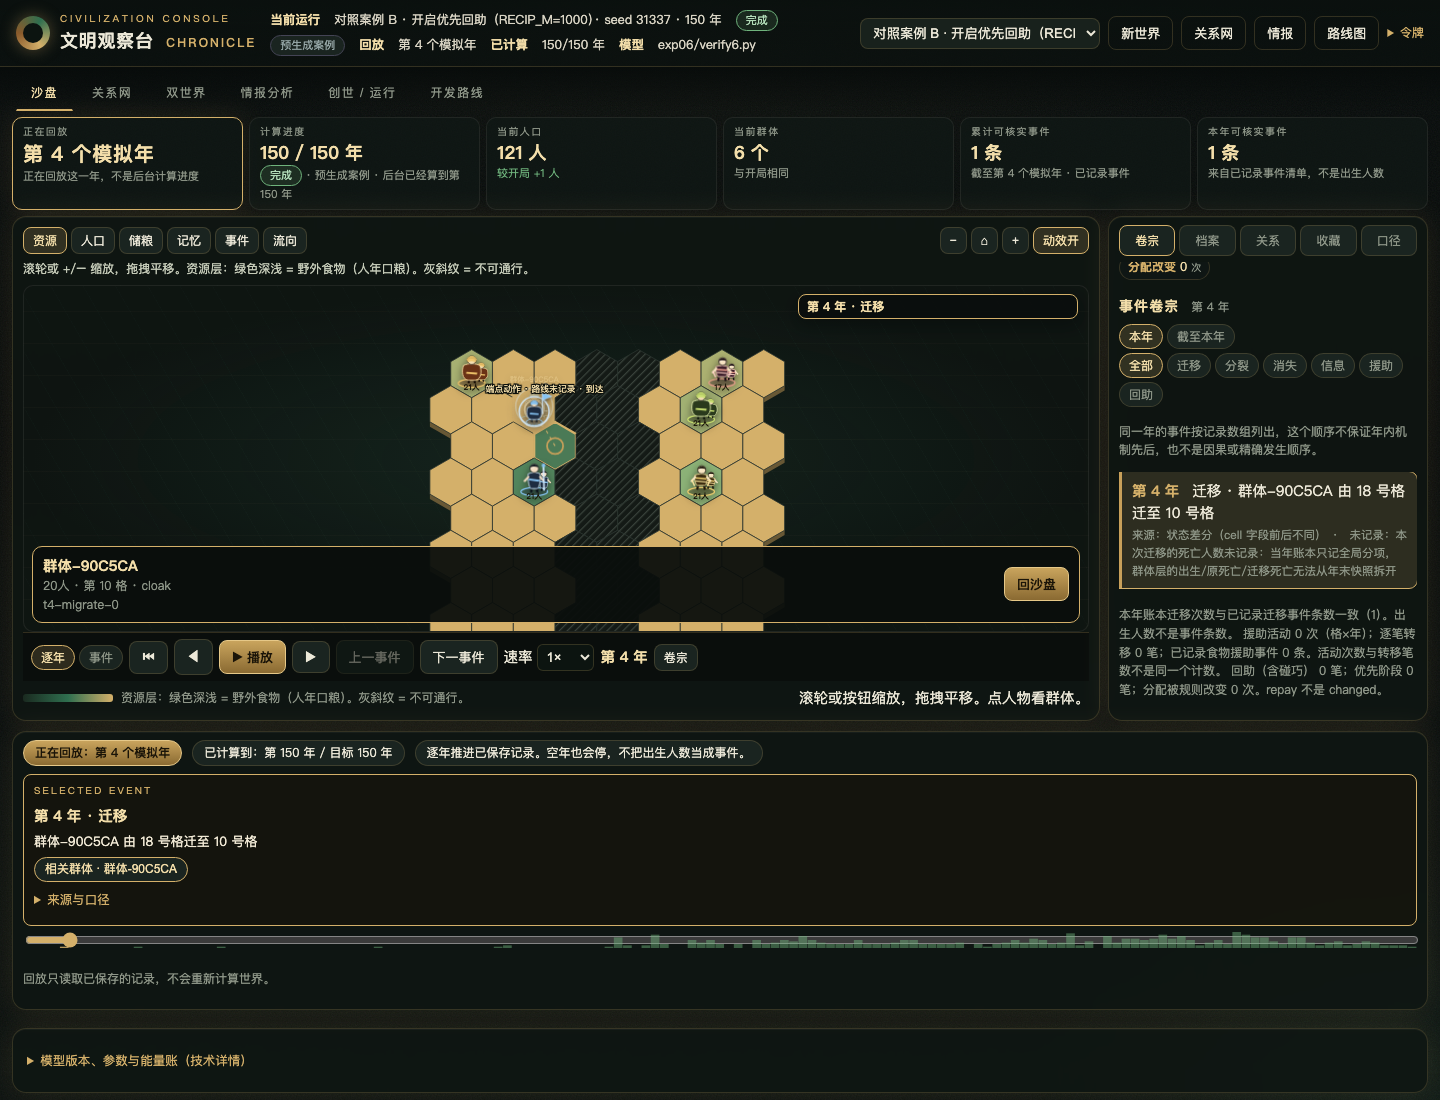
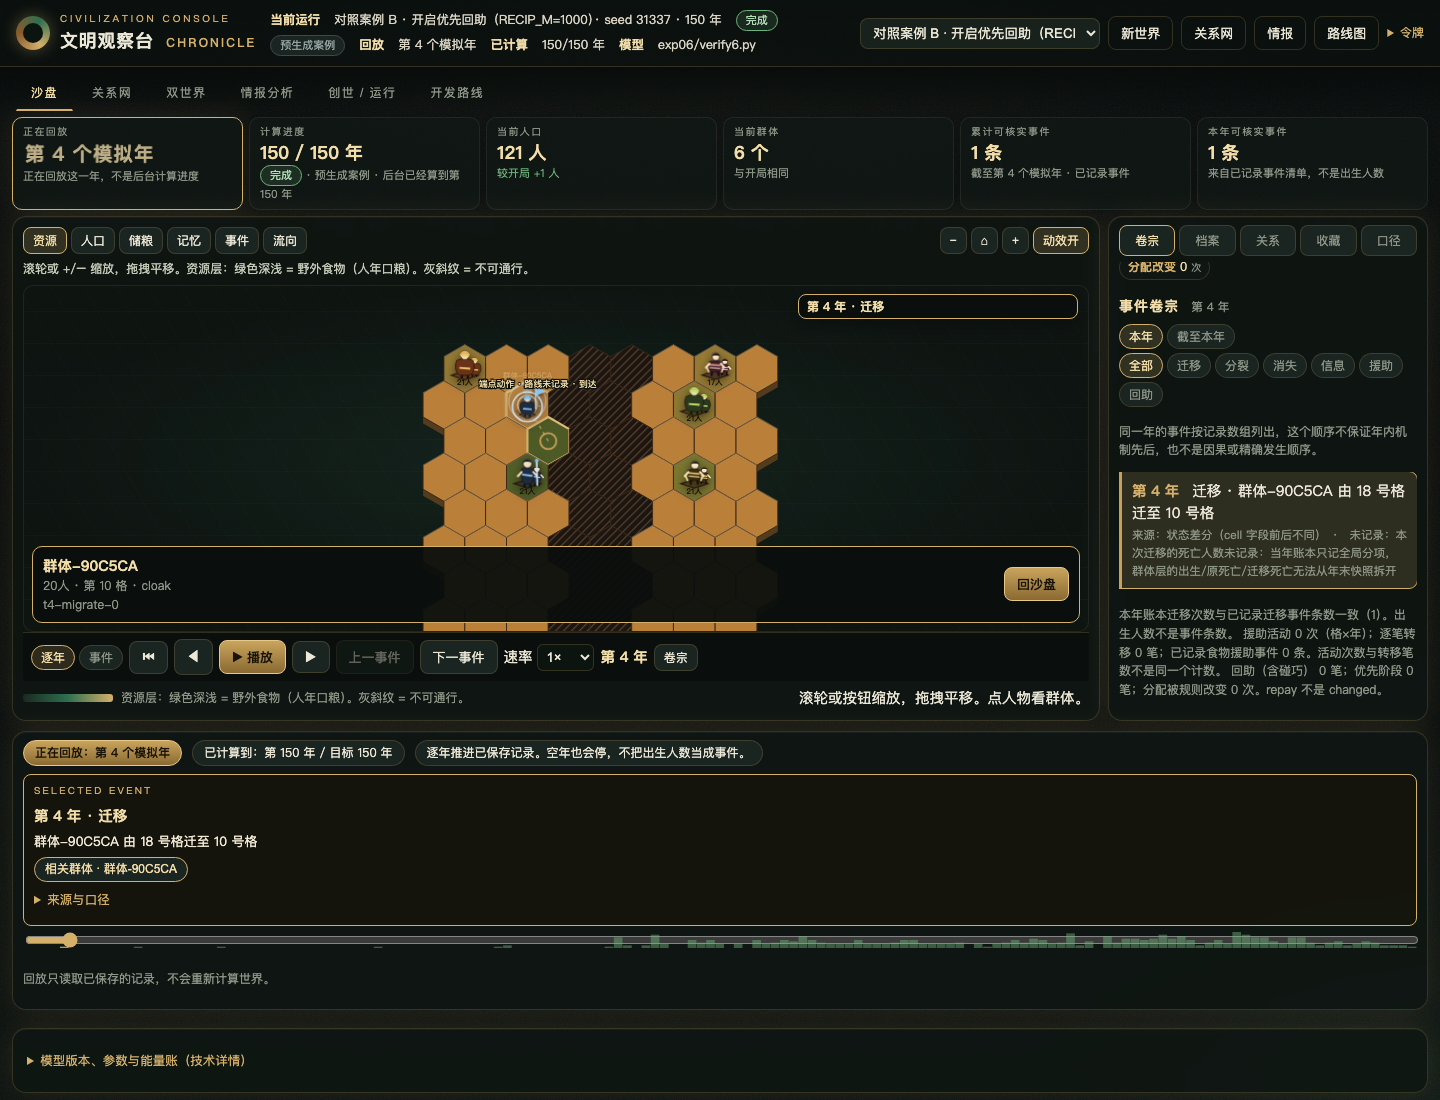
OBS-01 isometric hex camps and taller 390 map without waiting sprites

Changed region(s): [[0.2812, 0.3091, 0.5625, 0.4945], [0.2812, 0.5564, 0.5312, 0.5873], [0.0, 0.1236, 0.125, 0.1545]]

diff --git a/observer/web/app.js b/observer/web/app.js
@@ -535,7 +535,7 @@ const UnitArt = {
     if (kind === 1) {
       legs = `<path class="unit-leg unit-leg-l" d="${walk ? "M-3.4,6.6 L-5.2,12.2" : "M-3.2,6.6 L-4.0,12.0"}" stroke="${pal.hair}" stroke-width="2.7" stroke-linecap="round" fill="none"/>`
         + `<path class="unit-leg unit-leg-r" d="${walk ? "M3.4,6.6 L5.2,12.2" : "M3.2,6.6 L4.0,12.0"}" stroke="${pal.hair}" stroke-width="2.7" stroke-linecap="round" fill="none"/>`;
-      tunic = `<path class="unit-tunic" d="M-8.4,-1.0 C-9.2,4.6 -7.2,9.0 -4.6,9.8 L4.6,9.8 C7.2,9.0 9.2,4.6 8.4,-1.0 C4.6,-2.8 -4.6,-2.8 -8.4,-1.0Z" fill="${pal.cloth}" stroke="${pal.accent}" stroke-width="0.85"/>`;
+      tunic = `<path class="unit-tunic" d="M-8.4,-1.0 C-9.2,4.6 -7.2,9.0 -4.6,9.8 L4.6,9.8 C7.2,9.0 9.2,4.6 8.4,-1.0 C4.6,-2.8 -4.6,-2.8 -8.4,-1.0Z" fill="${pal.cloth}" stroke="#2a1810" stroke-width="0.85"/>`;
       sash = `<path class="unit-sash" d="M-7.2,2.0 L7.4,3.2 L6.8,5.4 L-7.6,4.2Z" fill="${pal.sash}"/>`;
       head = `<circle class="unit-head" cx="0" cy="-5.6" r="4.55" fill="${pal.skin}" stroke="${pal.hair}" stroke-width="0.75"/>`
         + `<path class="unit-hair" d="M-4.4,-6.2 C-3.4,-9.4 3.4,-9.4 4.4,-6.2 C2.0,-7.4 -2.0,-7.4 -4.4,-6.2Z" fill="${pal.hair}"/>`
@@ -543,7 +543,7 @@ const UnitArt = {
     } else if (kind === 2) {
       legs = `<path class="unit-leg unit-leg-l" d="${walk ? "M-2.4,7.6 L-3.8,13.4" : "M-2.2,7.6 L-2.8,13.2"}" stroke="${pal.hair}" stroke-width="2.05" stroke-linecap="round" fill="none"/>`
         + `<path class="unit-leg unit-leg-r" d="${walk ? "M2.4,7.6 L3.8,13.4" : "M2.2,7.6 L2.8,13.2"}" stroke="${pal.hair}" stroke-width="2.05" stroke-linecap="round" fill="none"/>`;
-      tunic = `<path class="unit-tunic" d="M-7.6,-2.4 C-9.6,2.8 -8.8,10.4 -3.6,11.2 L3.6,11.2 C8.8,10.4 9.6,2.8 7.6,-2.4 C3.2,-4.6 -3.2,-4.6 -7.6,-2.4Z" fill="${pal.cloth}" stroke="${pal.accent}" stroke-width="0.8"/>`;
+      tunic = `<path class="unit-tunic" d="M-7.6,-2.4 C-9.6,2.8 -8.8,10.4 -3.6,11.2 L3.6,11.2 C8.8,10.4 9.6,2.8 7.6,-2.4 C3.2,-4.6 -3.2,-4.6 -7.6,-2.4Z" fill="${pal.cloth}" stroke="#2a1810" stroke-width="0.8"/>`;
       sash = `<path class="unit-sash" d="M-4.8,3.4 L5.2,4.2 L4.8,6.0 L-5.2,5.2Z" fill="${pal.sash}"/>`;
       head = `<circle class="unit-head" cx="0" cy="-7.2" r="3.9" fill="${pal.skin}" stroke="${pal.hair}" stroke-width="0.6"/>`
         + `<path class="unit-hair" d="M-4.6,-6.4 C-5.2,-11.6 5.2,-11.6 4.6,-6.4 C2.4,-8.8 -2.4,-8.8 -4.6,-6.4Z" fill="${pal.hair}"/>`
@@ -552,7 +552,7 @@ const UnitArt = {
     } else if (kind === 3) {
       legs = `<path class="unit-leg unit-leg-l" d="${walk ? "M-2.8,6.4 L-4.8,11.6" : "M-2.6,6.4 L-3.4,11.4"}" stroke="${pal.hair}" stroke-width="2.05" stroke-linecap="round" fill="none"/>`
         + `<path class="unit-leg unit-leg-r" d="${walk ? "M2.8,6.4 L4.8,11.6" : "M2.6,6.4 L3.4,11.4"}" stroke="${pal.hair}" stroke-width="2.05" stroke-linecap="round" fill="none"/>`;
-      tunic = `<path class="unit-tunic" d="M-5.8,-1.2 C-6.2,3.4 -5.0,7.4 -3.4,8.2 L3.4,8.2 C5.0,7.4 6.2,3.4 5.8,-1.2 C3.2,-2.6 -3.2,-2.6 -5.8,-1.2Z" fill="${pal.cloth}" stroke="${pal.accent}" stroke-width="0.8"/>`;
+      tunic = `<path class="unit-tunic" d="M-5.8,-1.2 C-6.2,3.4 -5.0,7.4 -3.4,8.2 L3.4,8.2 C5.0,7.4 6.2,3.4 5.8,-1.2 C3.2,-2.6 -3.2,-2.6 -5.8,-1.2Z" fill="${pal.cloth}" stroke="#2a1810" stroke-width="0.8"/>`;
       sash = `<path class="unit-sash" d="M-5.0,0.6 L5.2,1.4 L4.8,2.8 L-5.4,2.0Z" fill="${pal.sash}"/>`
         + `<path class="unit-sash" d="M-5.0,3.6 L5.2,4.4 L4.8,5.6 L-5.4,4.8Z" fill="${pal.accent}" opacity="0.85"/>`;
       head = `<circle class="unit-head" cx="0.6" cy="-6.2" r="3.7" fill="${pal.skin}" stroke="${pal.hair}" stroke-width="0.7"/>`
@@ -561,7 +561,7 @@ const UnitArt = {
     } else {
       legs = `<path class="unit-leg unit-leg-l" d="${walk ? "M-2.2,8.0 L-3.6,14.2" : "M-2.0,8.0 L-2.8,14.0"}" stroke="${pal.hair}" stroke-width="2.15" stroke-linecap="round" fill="none"/>`
         + `<path class="unit-leg unit-leg-r" d="${walk ? "M2.2,8.0 L3.6,14.2" : "M2.0,8.0 L2.8,14.0"}" stroke="${pal.hair}" stroke-width="2.15" stroke-linecap="round" fill="none"/>`;
-      tunic = `<path class="unit-tunic" d="M-5.6,-2.4 C-6.0,4.8 -4.6,10.2 -3.0,11.2 L3.0,11.2 C4.6,10.2 6.0,4.8 5.6,-2.4 C3.2,-4.0 -3.2,-4.0 -5.6,-2.4Z" fill="${pal.cloth}" stroke="${pal.accent}" stroke-width="0.8"/>`;
+      tunic = `<path class="unit-tunic" d="M-5.6,-2.4 C-6.0,4.8 -4.6,10.2 -3.0,11.2 L3.0,11.2 C4.6,10.2 6.0,4.8 5.6,-2.4 C3.2,-4.0 -3.2,-4.0 -5.6,-2.4Z" fill="${pal.cloth}" stroke="#2a1810" stroke-width="0.8"/>`;
       sash = `<path class="unit-sash" d="M-4.8,1.8 L4.8,3.0 L4.4,4.8 L-5.2,3.6Z" fill="${pal.sash}"/>`;
       head = `<circle class="unit-head" cx="0" cy="-7.4" r="4.05" fill="${pal.skin}" stroke="${pal.hair}" stroke-width="0.7"/>`
         + `<path class="unit-hair" d="M-3.8,-8.2 C-3.2,-12.0 3.2,-12.0 3.8,-8.2 C1.6,-9.6 -1.6,-9.6 -3.8,-8.2Z" fill="${pal.hair}"/>`
@@ -602,7 +602,7 @@ const UnitArt = {
       : "";
     return `<g class="band unit${on ? " selected" : ""}${ghost}" data-band="${esc(bid)}" data-unit="group-rep" data-party="${nParty}" data-silhouette="${this.silhouetteName(v)}" data-pose="${esc(pose)}" data-cell="${esc(cell)}" transform="translate(${Number(x).toFixed(1)},${Number(y).toFixed(1)}) scale(${(sc * facing).toFixed(3)},${sc.toFixed(3)})">
       <title>${esc(name)} · 群体代表（${this.silhouetteName(v)} · ${nParty}人造型）· ${size}人。这是群体的可视替身，不是独立个人生平。</title>
-      <ellipse class="unit-camp" cx="0" cy="14.0" rx="${campRx}" ry="3.8" fill="${pal.cloth}" fill-opacity="0.34" stroke="${pal.sash}" stroke-width="1.05"/>
+      <path class="unit-camp" d="M0,15.2 L${campRx},11.2 L0,7.2 L-${campRx},11.2 Z" fill="${pal.cloth}" fill-opacity="0.5" stroke="#2a1810" stroke-width="1.15"/>
       <g class="unit-body unit-${esc(pose)}">${party}</g>
       ${on ? `<circle class="unit-ring" cx="0" cy="2" r="17.2" fill="none" stroke="${pal.accent}" stroke-width="1.55"/>` : ""}
       ${banner}
@@ -1130,13 +1130,22 @@ function hexPath(cx, cy) {
   }
   return d + "Z";
 }
+function hexTopEdge(cx, cy) {
+  const pts = [];
+  for (let k = 5; k <= 7; k++) {
+    const i = k % 6;
+    const a = Math.PI / 180 * (60 * i - 90);
+    pts.push((cx + R * Math.cos(a)).toFixed(1) + "," + (cy + R * Math.sin(a)).toFixed(1));
+  }
+  return "M" + pts.join(" L");
+}
 function hexSkirtPath(cx, cy) {
   const pts = [];
   for (let k = 0; k < 6; k++) {
     const a = Math.PI / 180 * (60 * k - 90);
     pts.push([cx + R * Math.cos(a), cy + R * Math.sin(a)]);
   }
-  const drop = 6;
+  const drop = 8;
   const q = (i) => pts[i][0].toFixed(1) + "," + (pts[i][1] + drop).toFixed(1);
   return "M" + pts[1][0].toFixed(1) + "," + pts[1][1].toFixed(1)
     + "L" + pts[2][0].toFixed(1) + "," + pts[2][1].toFixed(1)
@@ -1157,7 +1166,7 @@ function cellCenter(c) {
 }
 function ramp(f) {
   f = Math.max(0, Math.min(1, f));
-  const a = [18, 32, 26], b = [111, 179, 124], c = [212, 176, 106];
+  const a = [48, 54, 28], b = [96, 112, 44], c = [186, 128, 58];
   const mix = (p, q, t) => p.map((v, i) => Math.round(v + (q[i] - v) * t));
   const rgb = f < 0.55 ? mix(a, b, f / 0.55) : mix(b, c, (f - 0.55) / 0.45);
   return "rgb(" + rgb.join(",") + ")";
@@ -1215,7 +1224,7 @@ function renderMap() {
 
   let out = `<defs>
     <pattern id="hatch" width="7" height="7" patternUnits="userSpaceOnUse" patternTransform="rotate(45)">
-      <rect width="7" height="7" fill="#141a16"/><line x1="0" y1="0" x2="0" y2="7" stroke="#3a433c" stroke-width="3"/>
+      <rect width="7" height="7" fill="#1c1610"/><line x1="0" y1="0" x2="0" y2="7" stroke="#5a4030" stroke-width="3"/>
     </pattern>
     <filter id="glow"><feGaussianBlur stdDeviation="1.6" result="b"/><feMerge><feMergeNode in="b"/><feMergeNode in="SourceGraphic"/></feMerge></filter>
   </defs>`;
@@ -1260,12 +1269,15 @@ function renderMap() {
     const selected = S.selCell === c.i;
     const hovered = S.hoverCell === c.i;
     const hot = eventCells.has(c.i) && (layer === "event" || layer === "flow");
-    const stroke = selected ? "#f3deaa" : hovered ? "#e6c888" : (hot ? "#d4b06a" : (S.skin === "console" ? "#2c4a48" : "#2a3530"));
-    const skirtFill = c.passable ? shadeFill(fill, 0.52) : "#0a0e0c";
+    const stroke = selected ? "#f3deaa" : hovered ? "#e6c888" : (hot ? "#d4b06a" : (S.skin === "console" ? "#2c4a48" : "#3a2818"));
+    const skirtFill = c.passable ? shadeFill(fill, 0.48) : "#1a120c";
     out += `<path class="cell-skirt" d="${hexSkirtPath(cx, cy)}" fill="${skirtFill}" stroke="none" pointer-events="none"/>`;
     out += `<path d="${hexPath(cx, cy)}" fill="${fill}" stroke="${stroke}"
-        stroke-width="${selected ? 2.8 : hovered ? 2 : hot ? 1.8 : 1}" data-cell="${c.i}" class="cell${hovered ? " hover" : ""}"${selected ? ' filter="url(#glow)"' : ""}>
+        stroke-width="${selected ? 2.8 : hovered ? 2 : hot ? 1.8 : 1.15}" data-cell="${c.i}" class="cell${hovered ? " hover" : ""}"${selected ? ' filter="url(#glow)"' : ""}>
         <title>${esc(title)}</title></path>`;
+    if (c.passable) {
+      out += `<path class="cell-lit" d="${hexTopEdge(cx, cy)}" fill="none" stroke="rgba(255,236,200,.22)" stroke-width="1.4" pointer-events="none"/>`;
+    }
     const lod = S.cam.k;
     const showNum = lod >= 1.45 || selected || S.hoverCell === c.i;
     if (c.passable && label && showNum) {
@@ -3362,7 +3374,11 @@ async function boot() {
   });
   bindMapCam();
   if ($("b-back-map")) $("b-back-map").addEventListener("click", () => { closeSheets(); });
-  if ($("b-open-rail")) $("b-open-rail").addEventListener("click", () => { showRail("chronicle"); });
+  if ($("b-open-rail")) $("b-open-rail").addEventListener("click", () => {
+    const rail = $("rail");
+    if (rail && rail.classList.contains("open")) closeSheets();
+    else showRail("chronicle");
+  });
   window.addEventListener("resize", () => { if (compactPlay()) closeSheets(); });
   if ($("b-motion")) $("b-motion").addEventListener("click", () => {
     S.reduceMotion = !S.reduceMotion;

diff --git a/observer/web/style.css b/observer/web/style.css
@@ -349,16 +349,18 @@ html.skin-console #pane-help{display:none !important}
   html.skin-console .rail-pane.on,html.skin-console .rail-pane:not([hidden]){display:block !important}
 }
 @media (max-width:900px){
-  #tab-world{height:calc(100dvh - 96px);padding-bottom:58px}
+  #tab-world{height:calc(100dvh - 52px);padding-bottom:58px}
+  .overview{display:none}
   .play-dock{position:fixed;left:0;right:0;bottom:0;padding-bottom:max(6px, env(safe-area-inset-bottom))}
   .play-dock .tlctl .btn{min-width:40px;min-height:36px}
-  .rail{position:fixed;left:8px;right:8px;bottom:62px;max-height:36vh;z-index:34;
+  .rail{position:fixed;left:8px;right:8px;bottom:62px;max-height:28vh;z-index:34;
     display:none;height:auto}
   .rail.open{display:flex}
+  .rail.open .year-summary,.rail.open .year-metrics,.rail.open .panel-kicker,
+  .rail.open #ev-load-note,.rail.open #ev-ledger-note{display:none}
   .sandtable{min-height:0;flex:1;height:100%;padding:6px}
   .mapbox,#map{min-height:0;flex:1}
   .console{display:none}
-  .overview{grid-template-columns:repeat(3,minmax(0,1fr));padding:4px 8px 0}
   .ov-s{display:none}
 }
 @media (max-width:620px){

diff --git a/observer/web/CONTINUOUS-PROGRESS.md b/observer/web/CONTINUOUS-PROGRESS.md
@@ -1,5 +1,13 @@
 # 连续开发进度
 
+## GROK_BUILD_005 检查点
+- 素材包尚未落到 observer/web/assets，未空等、未生图。
+- 390：隐藏概览卡，地图高度约 489px；卷宗浮层上限 28vh 且可再点「卷宗」关闭；格子侧裙加高、顶边高光、赭石/苔绿资源色、营地改等距菱形、深棕轮廓。
+- 试玩：http://127.0.0.1:8788/static/index.html#tab=world&run=preset-exp06-recip1000&t=0
+  建议 390 首屏直接播放；第 4 年迁移看端点动作。
+- tests：game-v2-unit 21/0；game-v2-cdp 21/0（V8 mapH=489 dockIn）；g04-fix 6/0；director-logic 18/0
+- 下一轮：接入 Codex 等距素材清单；8765/8772 仍 obs-1.7。
+
 ## GROK_BUILD_004 检查点
 - PLAYTEST-001：播放条贴沙盘底部，桌面/390 首屏同时看见地图与播放；选中群体卡片+回沙盘；事件条改到地图顶部且变矮；镜头平移限幅。
 - 手机卷宗改为底部浮层，不把播放钮顶出视口。口径收到「来源与口径」。手机提示改为拖动/+−。
